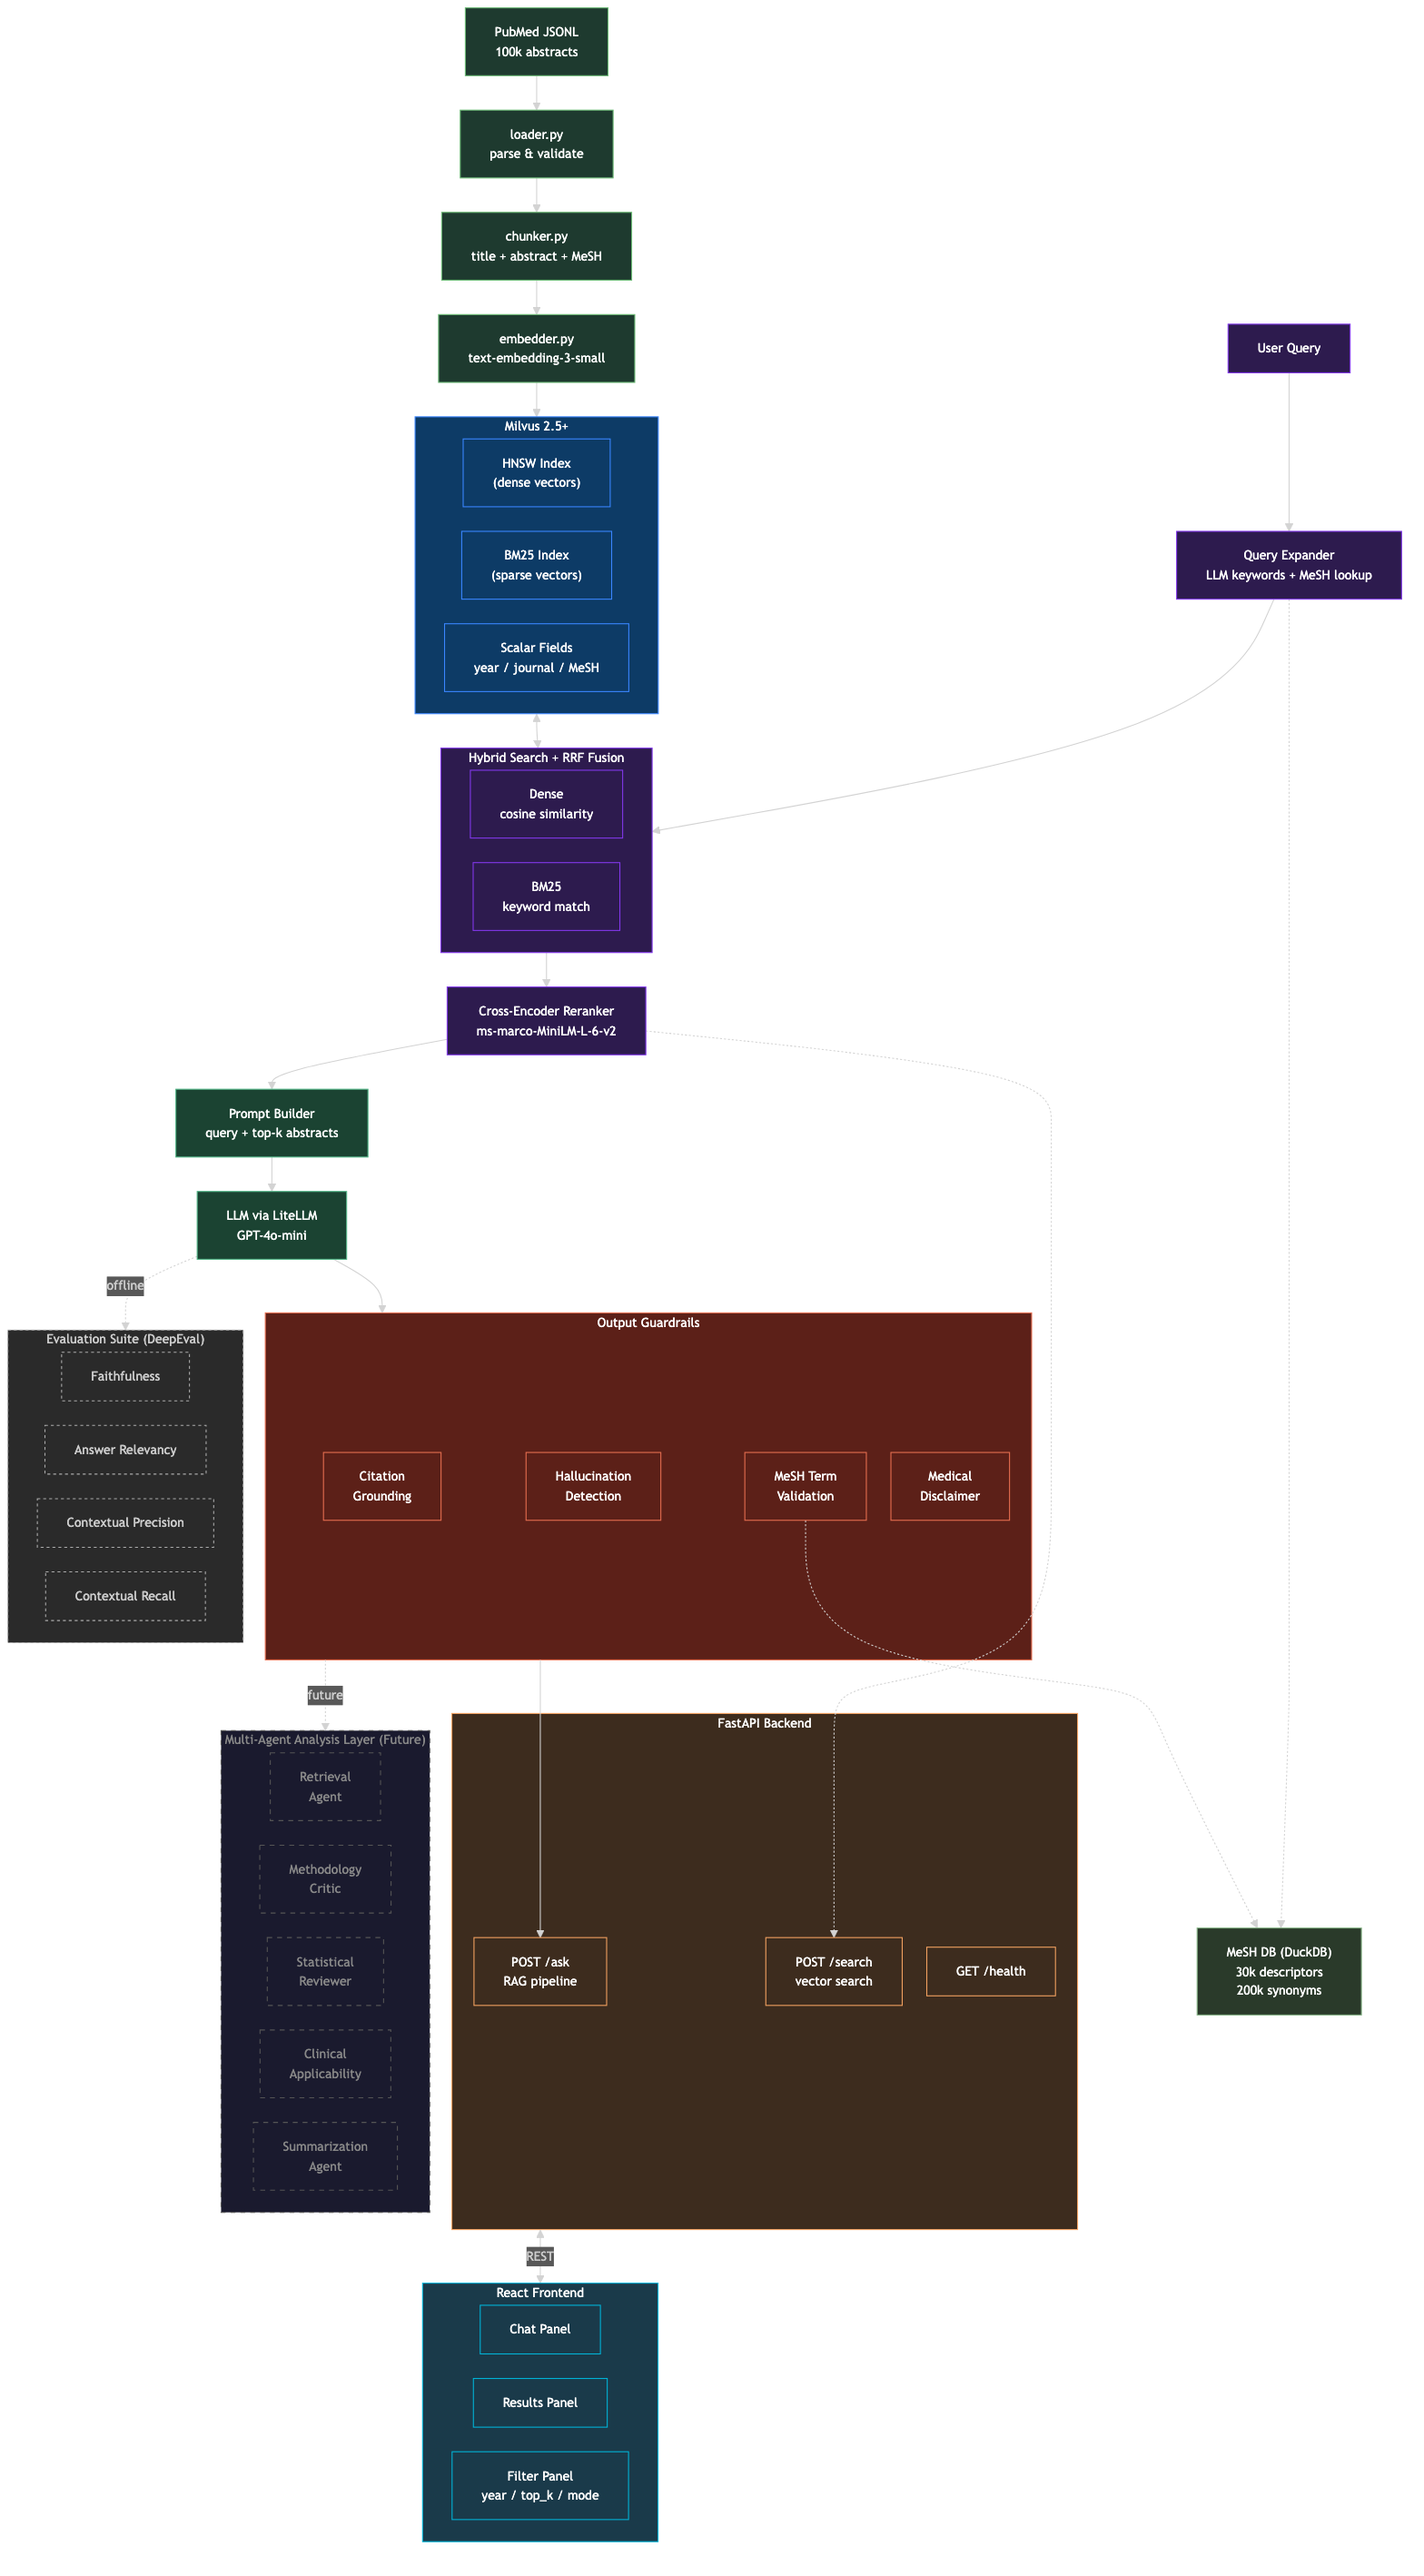
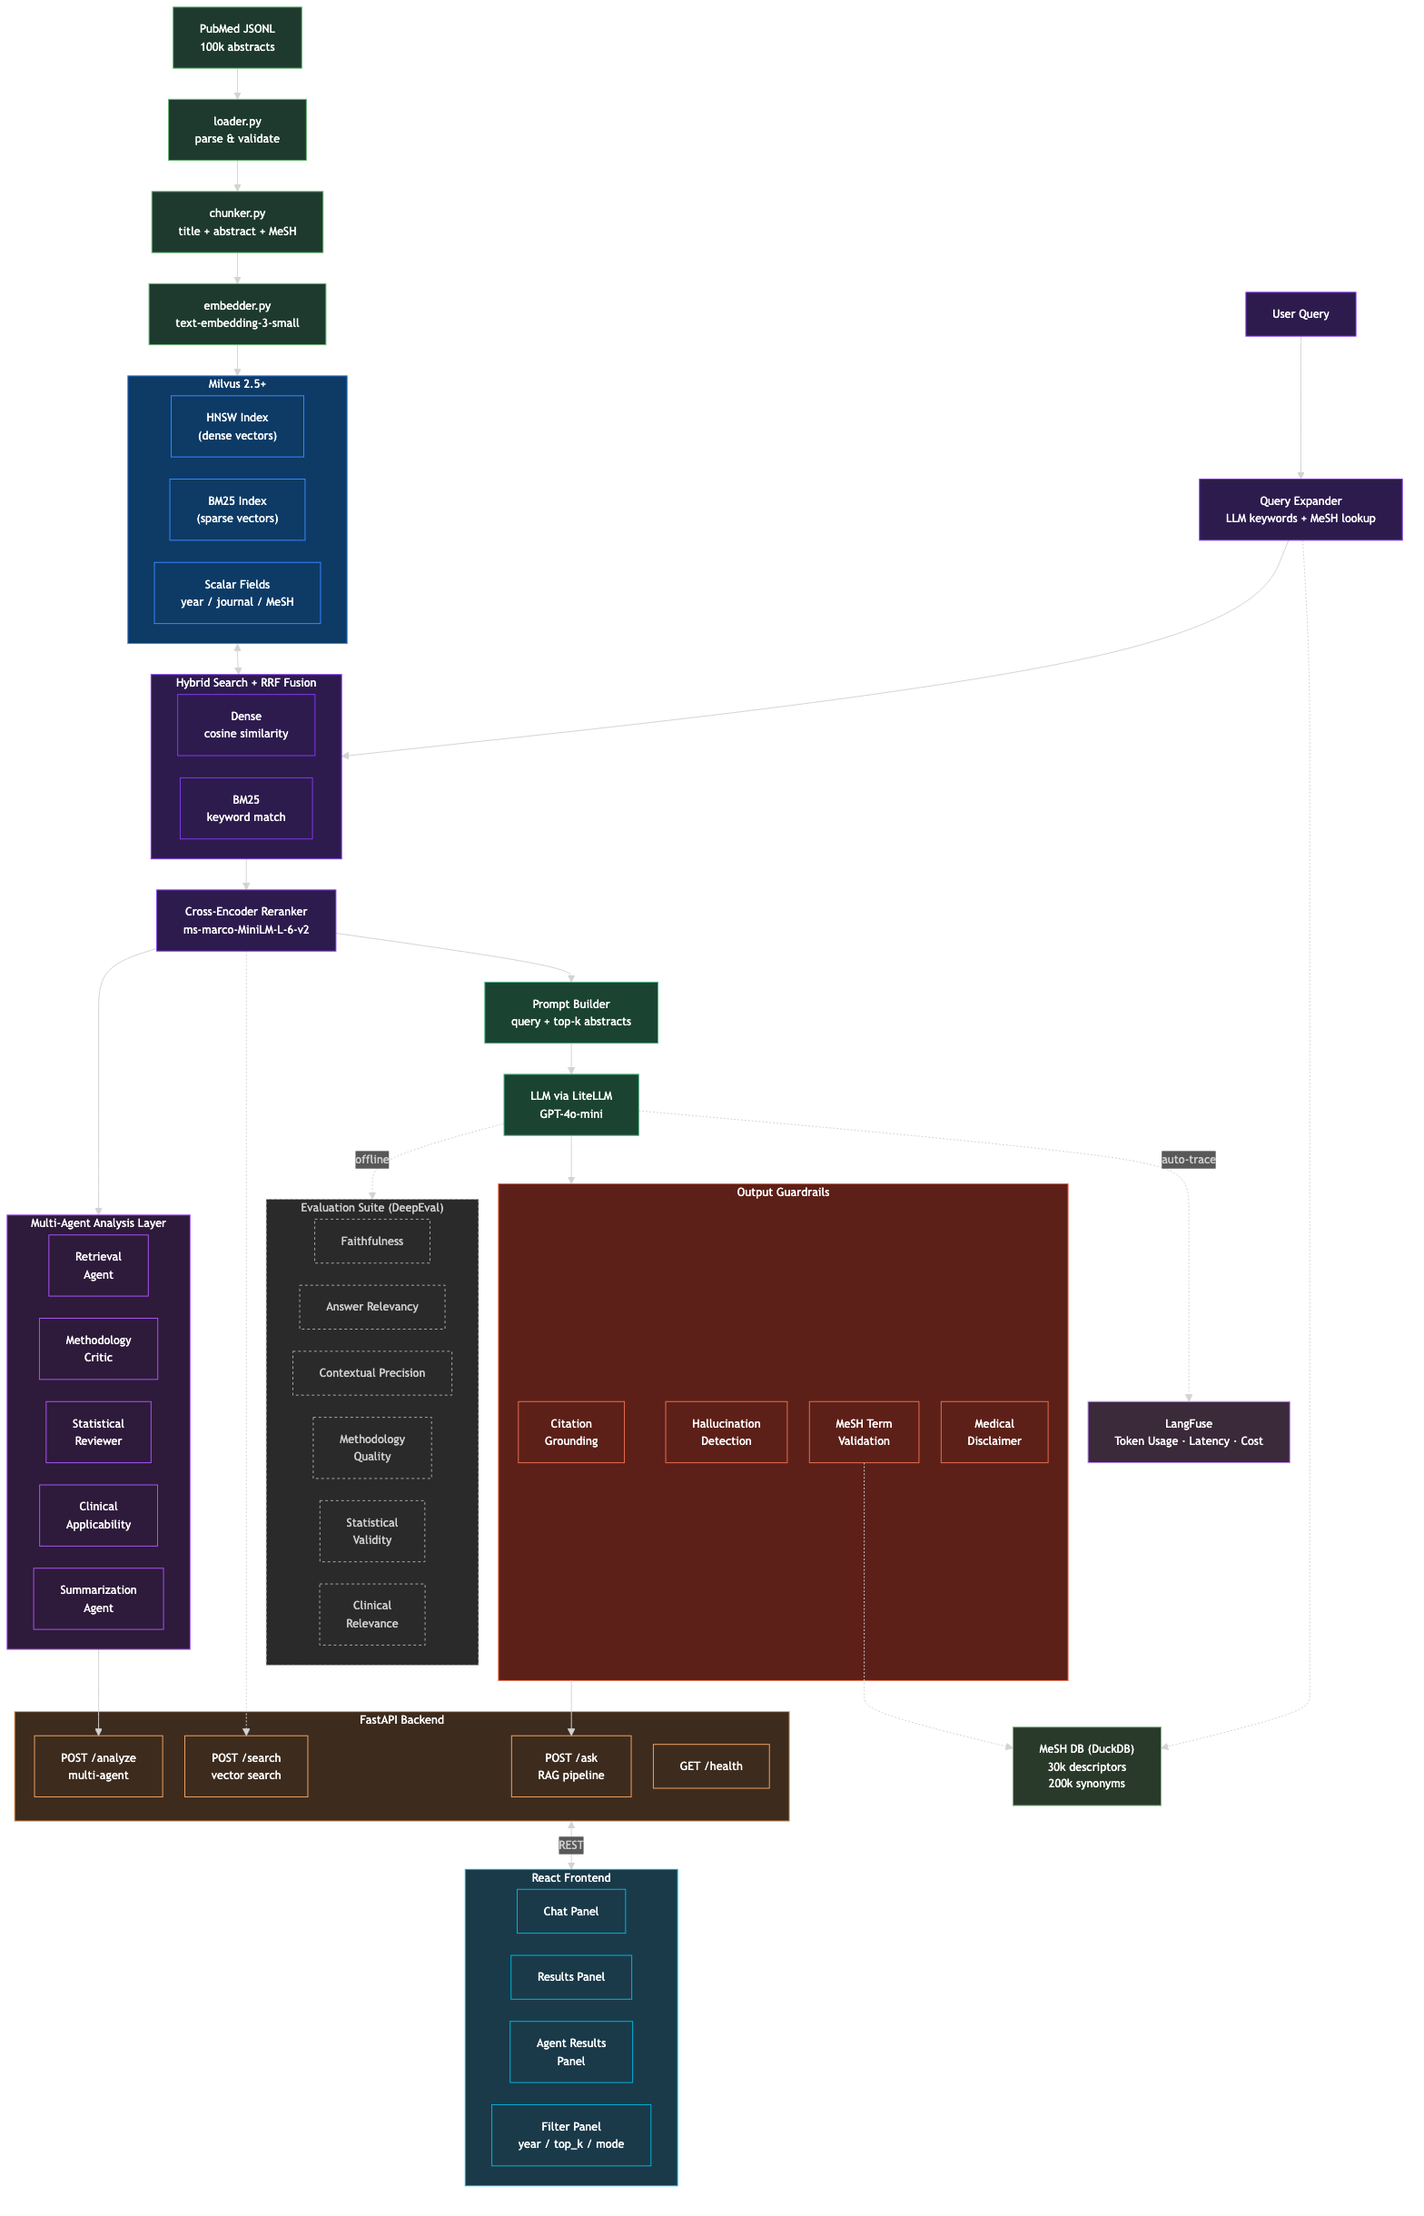
docs: update architecture diagram for multi-agent layer, add eval dataset
- Update architecture.mmd: multi-agent layer from dashed/future to solid/implemented
- Add POST /analyze endpoint and Agent Results Panel to diagram
- Add agent-based DeepEval metrics (Methodology, Statistical, Clinical) to diagram
- Regenerate architecture.png
- Mark completed TODOs in README (multi-agent, architecture diagram)
- Add tests/eval/dataset.json with 10 medical research queries
- Whitelist dataset.json in root .gitignore

diff --git a/README.md b/README.md
@@ -246,7 +246,7 @@ capstone/
 
 ## TODO
 
-- [ ] Multi-Agent analysis layer (Retrieval, Methodology Critic, Statistical Reviewer, Clinical Applicability, Summarization agents)
-- [ ] Update architecture diagram after multi-agent implementation (change dashed lines to solid in `docs/architecture.mmd`)
+- [x] Multi-Agent analysis layer (Retrieval, Methodology Critic, Statistical Reviewer, Clinical Applicability, Summarization agents)
+- [x] Update architecture diagram after multi-agent implementation (change dashed lines to solid in `docs/architecture.mmd`)
 - [x] Streaming responses (SSE) for `/ask` endpoint
 - [x] Token usage tracking (via LangFuse — all LLM calls automatically traced with token counts, latency, and cost)
